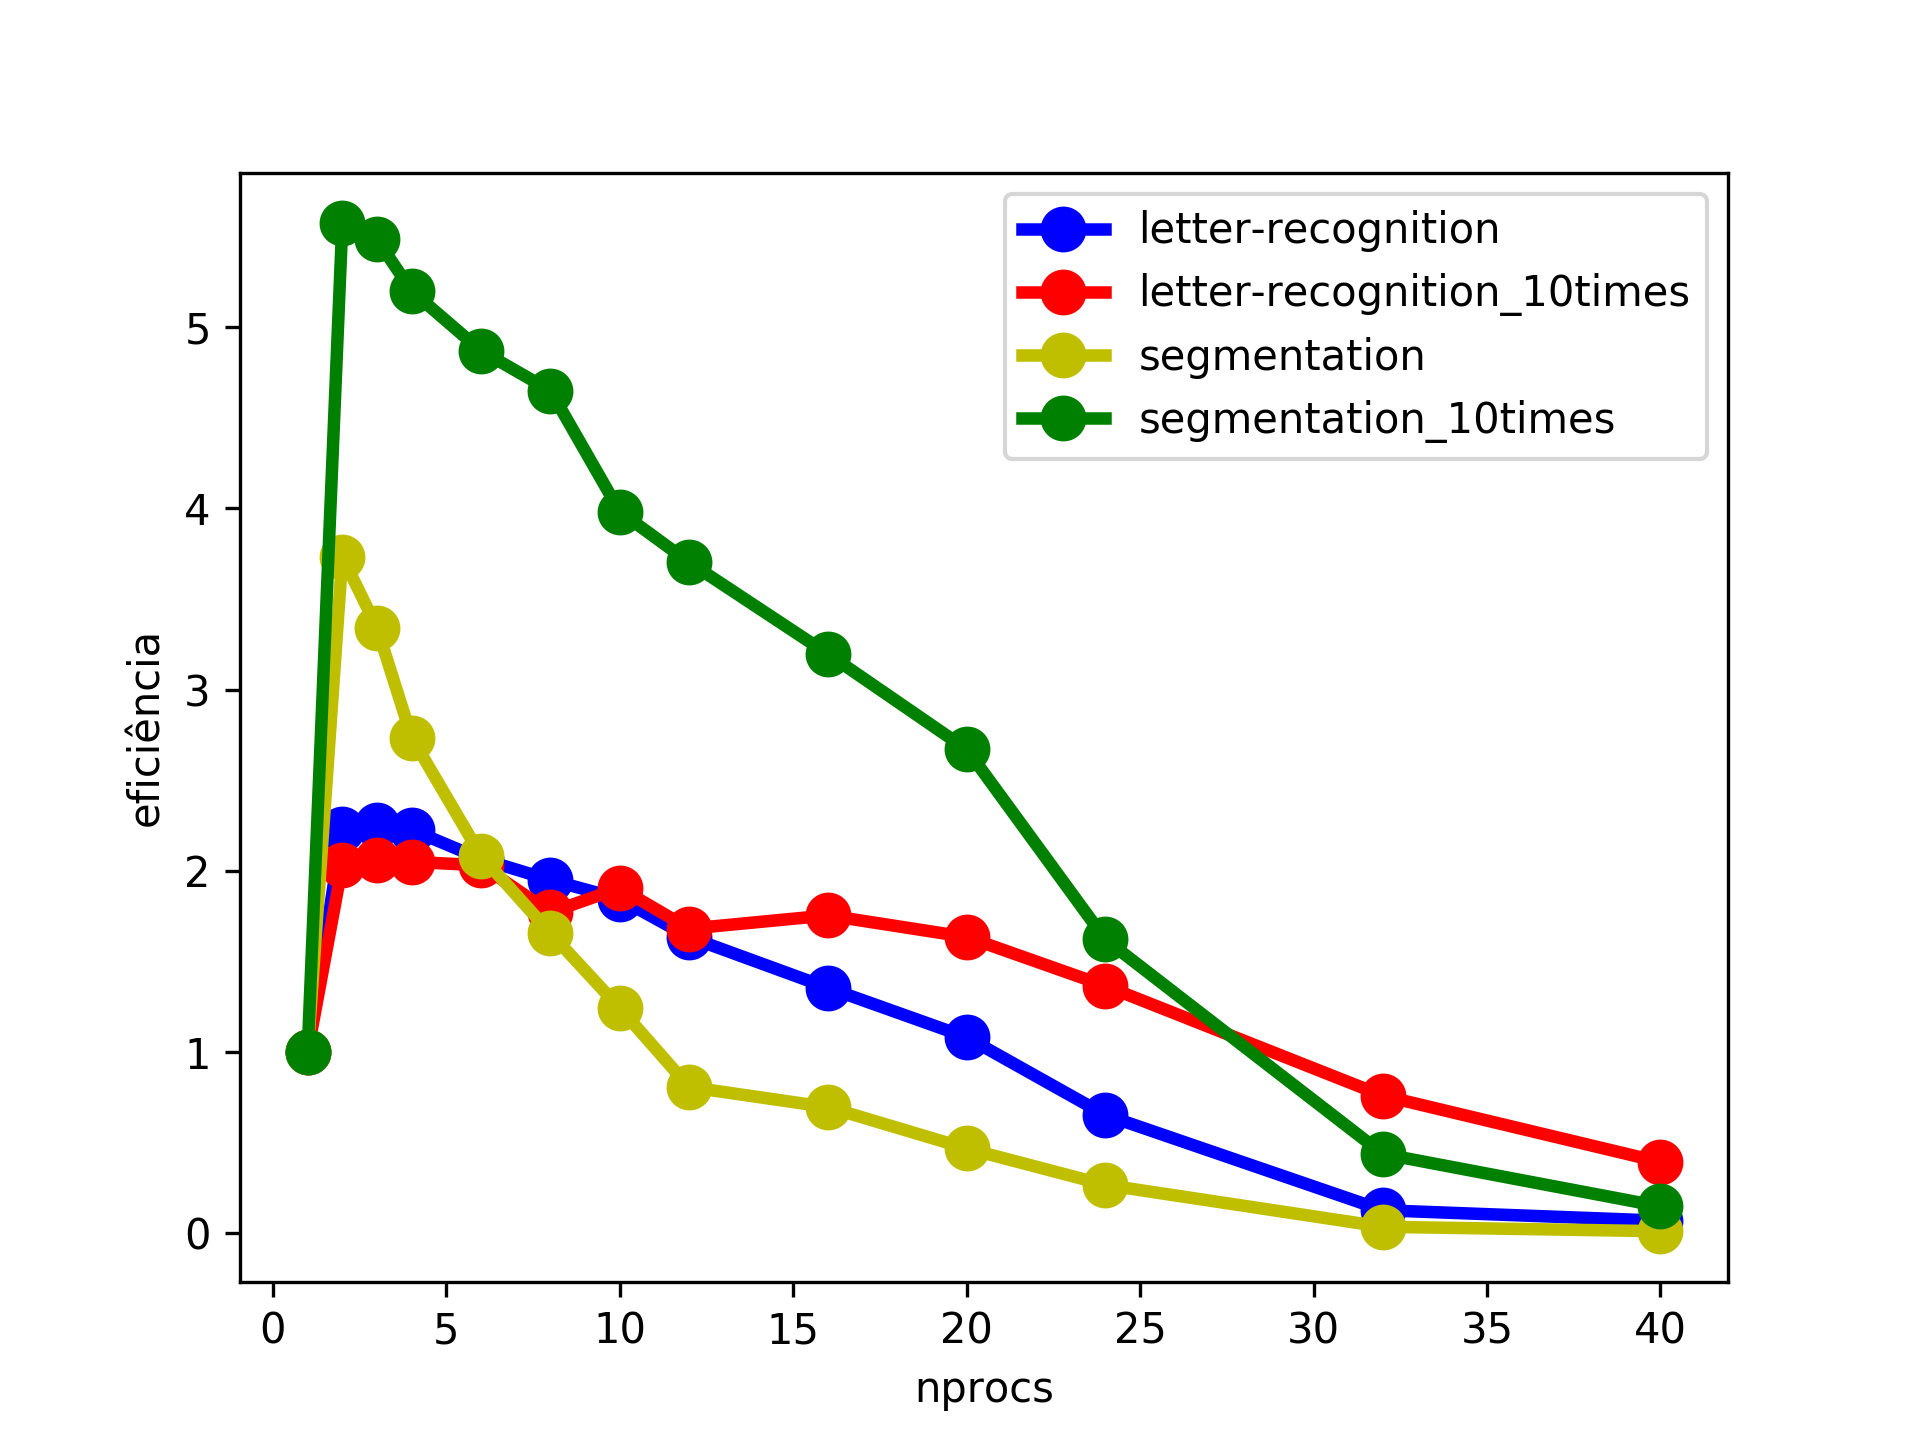
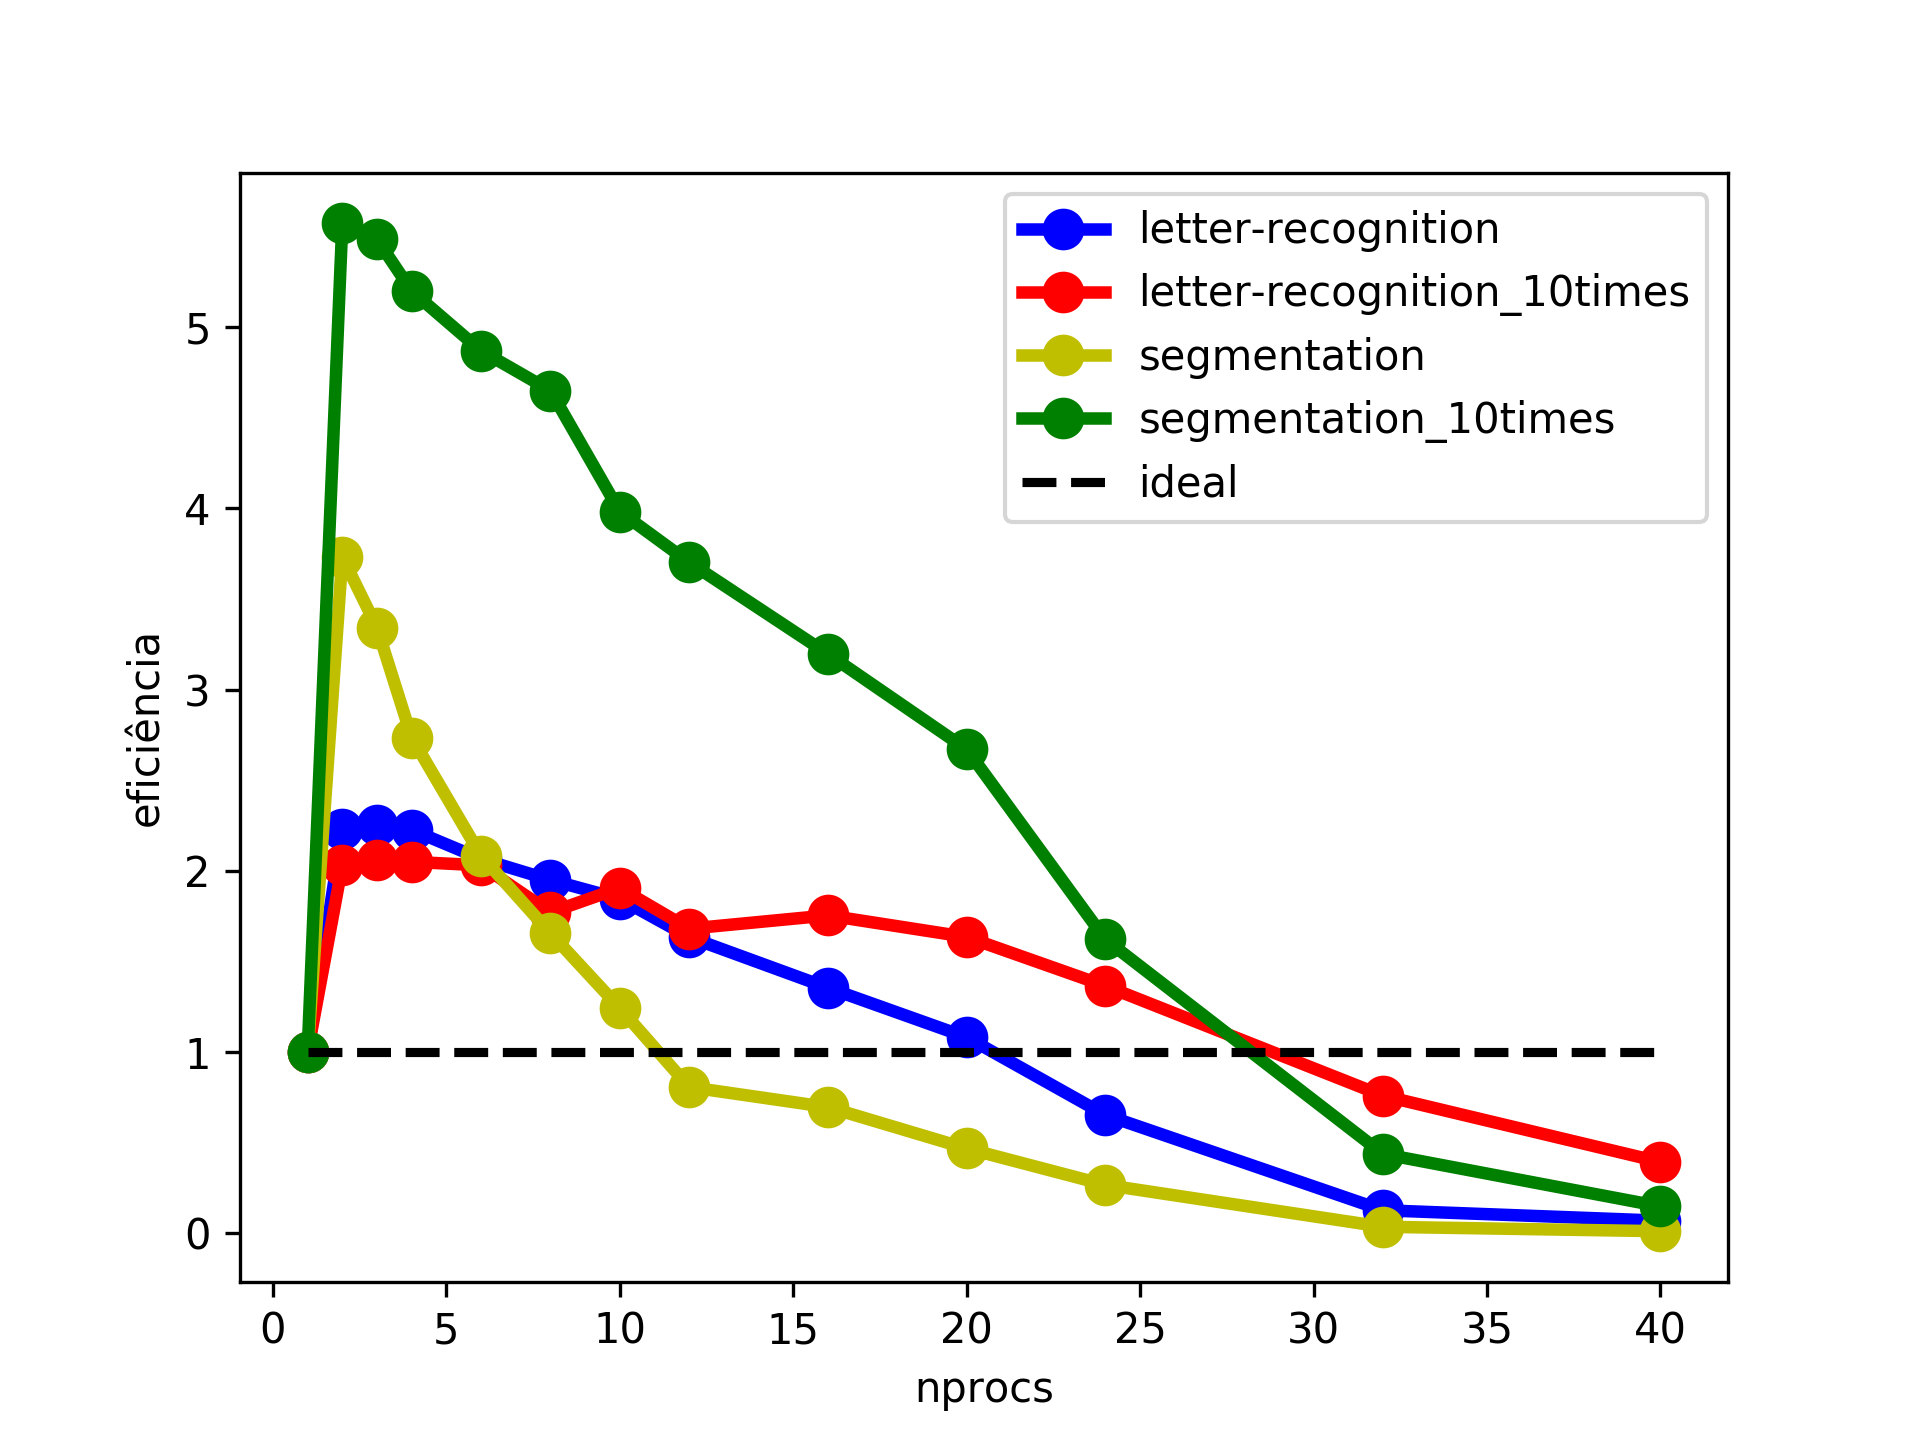
Novos gráficos.

diff --git a/process_report.py b/process_report.py
@@ -304,7 +304,7 @@ def plotChartGeneral(filename, xdata, ydata0, leg0, ydata1, leg1, ydata2, leg2, 
         rótulo do eixo y
     """
     lw_val = 3
-    mew_val = 5
+    mew_val = 4
     line0, = plt.plot(xdata, ydata0, 'bo-', lw = lw_val, mew = mew_val, label=leg0)
     line1, = plt.plot(xdata, ydata1, 'ro-', lw = lw_val, mew = mew_val, label=leg1)
     line2, = plt.plot(xdata, ydata2, 'yo-', lw = lw_val, mew = mew_val, label=leg2)
@@ -315,6 +315,49 @@ def plotChartGeneral(filename, xdata, ydata0, leg0, ydata1, leg1, ydata2, leg2, 
     plt.savefig(os.path.join(filename + ".png"), dpi=300)
     plt.gcf().clear()
 
+def plotChartGeneralIdealLine(filename, xdata, ydata0, leg0, ydata1, leg1, ydata2, leg2, \
+        ydata3, leg3, xlabel, ylabel, yideal):
+    """
+    Desenha um gráfico com quatro linhas para valores de y diferente e insere suas legendas.
+
+    @param filename : str
+        nome do arquivo em que o gráfico será salvo
+    @param xdata : list
+        dados do eixo x
+    @param ydata0 : list
+        dados do eixo y, linha 0 
+    @param leg0 : str
+        legenda para a linha 0
+    @param ydata1 : list
+        dados do eixo y, linha 1 
+    @param leg1 : str
+        legenda para a linha 1
+    @param ydata2 : list
+        dados do eixo y, linha 2 
+    @param leg2 : str
+        legenda para a linha 2
+    @param ydata3 : list
+        dados do eixo y, linha 3 
+    @param leg3 : str
+        legenda para a linha 3
+    @param xlabel : str
+        rótulo do eixo x
+    @param ylabel : str
+        rótulo do eixo y
+    """
+    lw_val = 3
+    mew_val = 4
+    line0, = plt.plot(xdata, ydata0, 'bo-', lw = lw_val, mew = mew_val, label=leg0)
+    line1, = plt.plot(xdata, ydata1, 'ro-', lw = lw_val, mew = mew_val, label=leg1)
+    line2, = plt.plot(xdata, ydata2, 'yo-', lw = lw_val, mew = mew_val, label=leg2)
+    line3, = plt.plot(xdata, ydata3, 'go-', lw = lw_val, mew = mew_val, label=leg3)
+    line4, = plt.plot(xdata, yideal, 'k--', lw = 2.2, mew = 0, label="ideal")
+    plt.xlabel(xlabel)
+    plt.ylabel(ylabel)
+    plt.legend(handles=[line0, line1, line2, line3, line4]);
+    plt.savefig(os.path.join(filename + ".png"), dpi=300)
+    plt.gcf().clear()
+
 def generateGeneralCharts(reports):
     """
     Gera os gráficos gerais do relatório.
@@ -322,6 +365,12 @@ def generateGeneralCharts(reports):
     @param reports : list<Report>
         lista de relatórios de cada base de dados
     """
+    speedup_ideal = []
+    efficiency_ideal = []
+    for nprocs in reports[0].nprocs:
+        speedup_ideal.append(nprocs)
+    for i in range(len(reports[0].nprocs)):
+        efficiency_ideal.append(1)
     qty_times = len(out_files_suffix)
     for i in range(qty_times):
         plotChartGeneral(directory_report + "report_" + out_files_suffix[i] + "_mean", \
@@ -330,18 +379,18 @@ def generateGeneralCharts(reports):
             reports[2].time_mean[i], databases[2], \
             reports[3].time_mean[i], databases[3], \
             "nprocs", "tempo")
-        plotChartGeneral(directory_report + "report_" + out_files_suffix[i] + "_speedup", \
+        plotChartGeneralIdealLine(directory_report + "report_" + out_files_suffix[i] + "_speedup", \
             reports[0].nprocs, reports[0].speedup[i], databases[0], \
             reports[1].speedup[i], databases[1], \
             reports[2].speedup[i], databases[2], \
             reports[3].speedup[i], databases[3], \
-            "nprocs", "speedup")
-        plotChartGeneral(directory_report + "report_" + out_files_suffix[i] + "_efficiency", \
+            "nprocs", "speedup", speedup_ideal)
+        plotChartGeneralIdealLine(directory_report + "report_" + out_files_suffix[i] + "_efficiency", \
             reports[0].nprocs, reports[0].efficiency[i], databases[0], \
             reports[1].efficiency[i], databases[1], \
             reports[2].efficiency[i], databases[2], \
             reports[3].efficiency[i], databases[3], \
-            "nprocs", "eficiência")
+            "nprocs", "eficiência", efficiency_ideal)
 
             
 def main(argv):
